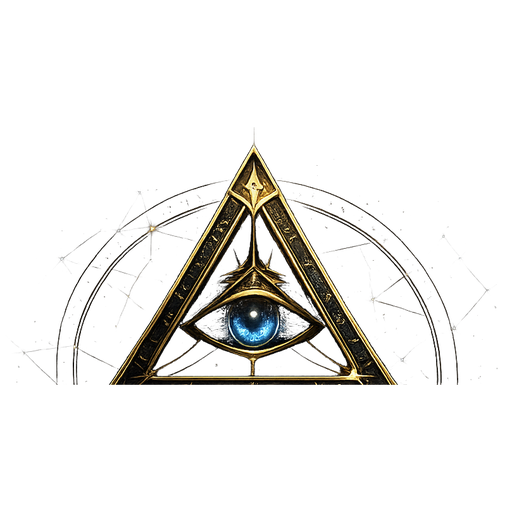
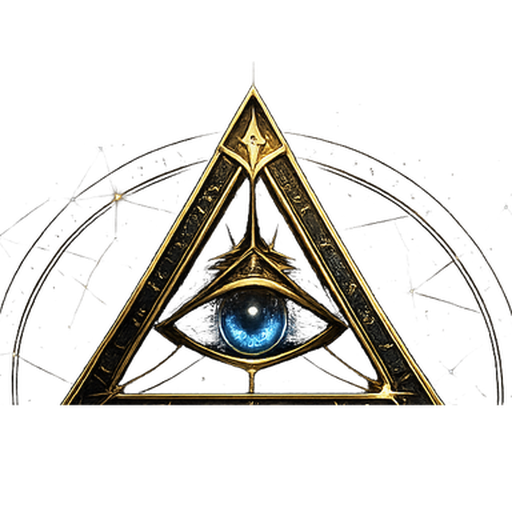
fix(ui): tier crest crop + NFT card no longer cropped + bigger brand slot
- public/tiers/pilot.png: the pyramid floated in a canvas that was ~50% empty
  margins (content only in the middle band), so the header crest rendered
  half-size. Density-cropped (99% alpha mass, outlier constellation specks
  ignored) to a content-filling square — the crest now renders ~50% larger.
- PricingCard hero: object-contain instead of object-cover. The PILOT art is
  2:3 inside a 3:4 frame and cover was cropping the 'Z-SWAP' header and the
  serial footer off the card (the exact cut the CEO screenshotted). Arts have
  near-black edges so the letterbox over the dark backdrop is invisible;
  pro/trader are exactly 3:4 and still fill edge-to-edge.
- BrandMark md 32->36px, lg 36->40px for a bit more presence in the navbar.

Claude-Session: https://claude.ai/code/session_01Xtz4Z7FH4Mg1yy4jYt6Uha

diff --git a/src/components/pricing/PricingCard.tsx b/src/components/pricing/PricingCard.tsx
@@ -122,15 +122,19 @@ export default function PricingCard({ tier, onMint, admin }: {
       )}
 
       <div className="flex flex-col h-full rounded-[15px] bg-bg-1/90 backdrop-blur-sm p-4 sm:p-5">
-        {/* NFT artwork hero — 3:4, halo in the tier accent */}
-        <div className={cn("relative aspect-[3/4] rounded-xl overflow-hidden", a.haloIdle)}>
+        {/* NFT artwork hero — 3:4 frame, halo in the tier accent. object-CONTAIN,
+            not cover: the PILOT art is 2:3, and cover was cropping the "Z-SWAP"
+            header + serial footer off the card. The arts have near-black edges,
+            so the letterbox over the dark backdrop is invisible; pro/trader are
+            exactly 3:4 and still fill edge-to-edge. */}
+        <div className={cn("relative aspect-[3/4] rounded-xl overflow-hidden bg-[#07060b]", a.haloIdle)}>
           <Image
             src={tier.art}
             alt={`${t(tier.nameKey)} — ${t("pricing.eyebrow")}`}
             fill
             priority
             sizes="(min-width: 768px) 30vw, calc(100vw - 4rem)"
-            className="object-cover"
+            className="object-contain"
           />
         </div>
 

diff --git a/src/components/layout/BrandMark.tsx b/src/components/layout/BrandMark.tsx
@@ -21,9 +21,9 @@ const TIER_EMBLEM: Partial<Record<PaidTier, string>> = {
 };
 
 const SIZES = {
-  sm: { box: "w-7 h-7", radius: "rounded-lg", z: "text-[13px]", blur: "opacity-30", px: 28 },
-  md: { box: "w-8 h-8", radius: "rounded-lg", z: "text-sm",     blur: "opacity-25", px: 32 },
-  lg: { box: "w-9 h-9", radius: "rounded-xl", z: "text-lg",     blur: "opacity-20", px: 36 },
+  sm: { box: "w-7 h-7",   radius: "rounded-lg", z: "text-[13px]", blur: "opacity-30", px: 28 },
+  md: { box: "w-9 h-9",   radius: "rounded-lg", z: "text-sm",     blur: "opacity-25", px: 36 },
+  lg: { box: "w-10 h-10", radius: "rounded-xl", z: "text-lg",     blur: "opacity-20", px: 40 },
 } as const;
 
 export default function BrandMark({ size = "lg" }: { size?: keyof typeof SIZES }) {